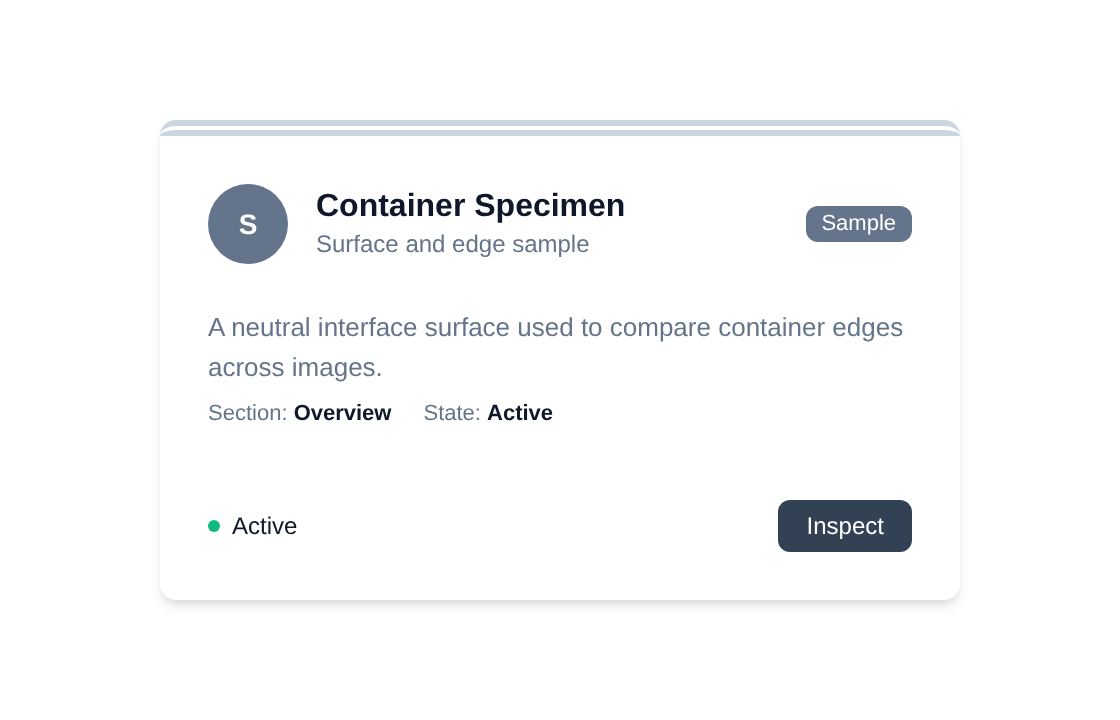
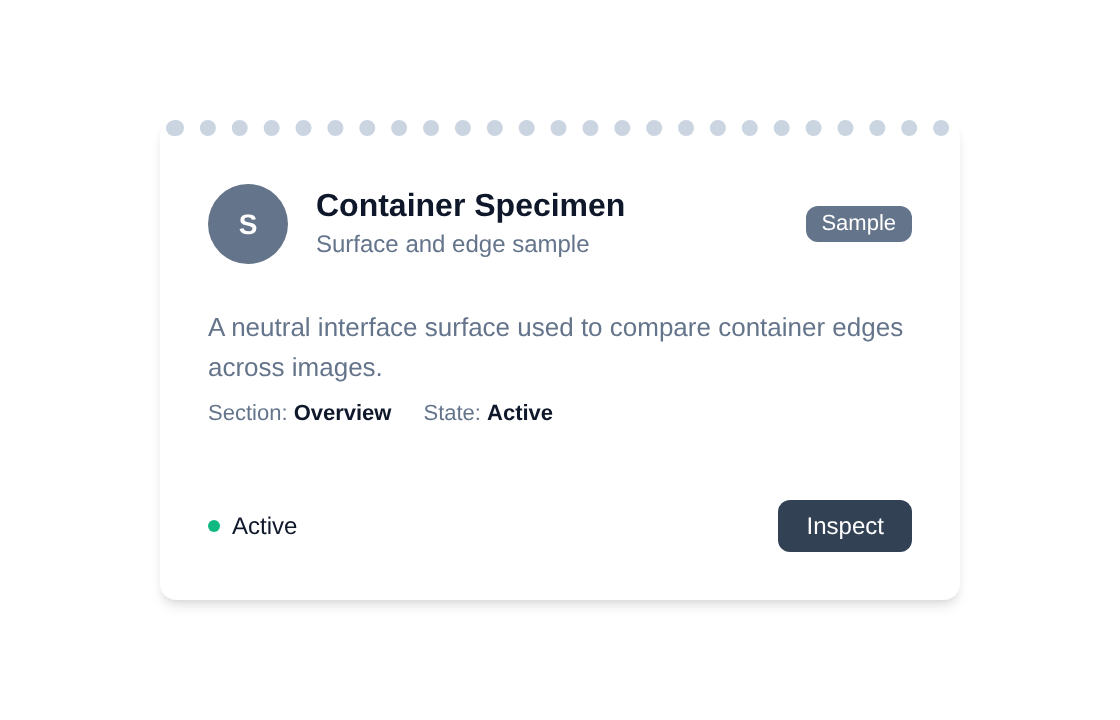
docs: close release-04 with 1.1.0 records and site

Changed region(s): [[0.1562, 0.1528, 0.875, 0.2139]]

diff --git a/site/index.html b/site/index.html
@@ -3,7 +3,7 @@
 <head>
 <meta charset="utf-8">
 <meta name="viewport" content="width=device-width, initial-scale=1">
-<title>BorderBench 1.0.0</title>
+<title>BorderBench 1.1.0</title>
 <style>
 body { font-family: Arial, sans-serif; margin: 0 auto; max-width: 1200px; padding: 24px; color: #0f172a; }
 small { display: block; color: #64748b; font-weight: 400; }
@@ -18,8 +18,8 @@ code { font-size: 12px; }
 </style>
 </head>
 <body>
-<h1>BorderBench 1.0.0</h1>
-<p>120 inputs · dataset <code>dcbff0b1c76a</code> · protocol <code>154aa49f7a90</code> · gate passed</p>
+<h1>BorderBench 1.1.0</h1>
+<p>120 inputs · dataset <code>506b7372566e</code> · protocol <code>36f674d3004f</code> · gate passed</p>
 <p>Shared cohort: 0 inputs measured by every listed configuration. Repeats keep the earliest observation; repeat costs stay in the ledger.</p>
 <div class="table-scroll"><table><thead><tr><th scope="col">Model</th><th scope="col">All seven correct</th><th scope="col">Border presence</th><th scope="col">Edge selectivity</th><th scope="col">Stroke style</th><th scope="col">Stroke width</th><th scope="col">Corner radius</th><th scope="col">Corner uniformity</th><th scope="col">Elevation</th></tr></thead><tbody><tr><td colspan="9">No measurements yet.</td></tr></tbody></table></div>
 
@@ -72,9 +72,9 @@ code { font-size: 12px; }
 <rect x="888" y="244" width="280" height="220" rx="8" fill="#fff"/>
 <image x="896" y="252" width="264" height="150" preserveAspectRatio="xMidYMid meet" href="inputs/borderbench-071.png"/>
 <text x="900" y="425" font-family="Arial,sans-serif" font-size="15" font-weight="700" fill="#0f172a">bottom-only</text>
-<text x="900" y="446" font-family="Arial,sans-serif" font-size="11" fill="#64748b">8px double</text>
+<text x="900" y="446" font-family="Arial,sans-serif" font-size="11" fill="#64748b">8px dotted</text>
 </g>
-</svg><div class="table-scroll"><table><thead><tr><th scope="col">Input group<small>All seven correct</small></th></tr></thead><tbody><tr><th scope="row">all-4<small>47 inputs</small></th></tr><tr><th scope="row">bottom-only<small>12 inputs</small></th></tr><tr><th scope="row">left-only<small>12 inputs</small></th></tr><tr><th scope="row">none<small>37 inputs</small></th></tr><tr><th scope="row">top-only<small>12 inputs</small></th></tr></tbody></table></div></section><section><h2>Stroke style</h2><p>Solid, dashed, dotted, double, or no stroke pattern.</p><svg xmlns="http://www.w3.org/2000/svg" viewBox="0 0 1180 476" role="img">
+</svg><div class="table-scroll"><table><thead><tr><th scope="col">Input group<small>All seven correct</small></th></tr></thead><tbody><tr><th scope="row">all-4<small>47 inputs</small></th></tr><tr><th scope="row">bottom-only<small>12 inputs</small></th></tr><tr><th scope="row">left-only<small>12 inputs</small></th></tr><tr><th scope="row">none<small>37 inputs</small></th></tr><tr><th scope="row">top-only<small>12 inputs</small></th></tr></tbody></table></div></section><section><h2>Stroke style</h2><p>Solid, dashed, dotted, or no stroke pattern.</p><svg xmlns="http://www.w3.org/2000/svg" viewBox="0 0 1180 476" role="img">
 <title>Stroke style</title>
 <rect width="100%" height="100%" fill="#f1f5f9"/>
 <g>
@@ -103,15 +103,15 @@ code { font-size: 12px; }
 </g>
 <g>
 <rect x="12" y="244" width="280" height="220" rx="8" fill="#fff"/>
-<image x="20" y="252" width="264" height="150" preserveAspectRatio="xMidYMid meet" href="inputs/borderbench-014.png"/>
-<text x="24" y="425" font-family="Arial,sans-serif" font-size="15" font-weight="700" fill="#0f172a">double</text>
-<text x="24" y="446" font-family="Arial,sans-serif" font-size="11" fill="#64748b">4px double</text>
+<image x="20" y="252" width="264" height="150" preserveAspectRatio="xMidYMid meet" href="inputs/borderbench-002.png"/>
+<text x="24" y="425" font-family="Arial,sans-serif" font-size="15" font-weight="700" fill="#0f172a">solid</text>
+<text x="24" y="446" font-family="Arial,sans-serif" font-size="11" fill="#64748b">1px solid</text>
 </g>
 <g>
 <rect x="304" y="244" width="280" height="220" rx="8" fill="#fff"/>
-<image x="312" y="252" width="264" height="150" preserveAspectRatio="xMidYMid meet" href="inputs/borderbench-002.png"/>
-<text x="316" y="425" font-family="Arial,sans-serif" font-size="15" font-weight="700" fill="#0f172a">solid</text>
-<text x="316" y="446" font-family="Arial,sans-serif" font-size="11" fill="#64748b">1px solid</text>
+<image x="312" y="252" width="264" height="150" preserveAspectRatio="xMidYMid meet" href="inputs/borderbench-014.png"/>
+<text x="316" y="425" font-family="Arial,sans-serif" font-size="15" font-weight="700" fill="#0f172a">dotted</text>
+<text x="316" y="446" font-family="Arial,sans-serif" font-size="11" fill="#64748b">4px dotted</text>
 </g>
 <g>
 <rect x="596" y="244" width="280" height="220" rx="8" fill="#fff"/>
@@ -125,7 +125,7 @@ code { font-size: 12px; }
 <text x="900" y="425" font-family="Arial,sans-serif" font-size="15" font-weight="700" fill="#0f172a">dashed</text>
 <text x="900" y="446" font-family="Arial,sans-serif" font-size="11" fill="#64748b">2px dashed</text>
 </g>
-</svg><div class="table-scroll"><table><thead><tr><th scope="col">Input group<small>All seven correct</small></th></tr></thead><tbody><tr><th scope="row">dashed<small>14 inputs</small></th></tr><tr><th scope="row">dotted<small>11 inputs</small></th></tr><tr><th scope="row">double<small>9 inputs</small></th></tr><tr><th scope="row">none<small>37 inputs</small></th></tr><tr><th scope="row">solid<small>49 inputs</small></th></tr></tbody></table></div></section><section><h2>Stroke width</h2><p>Hairline 1px through heavy 8px strokes.</p><svg xmlns="http://www.w3.org/2000/svg" viewBox="0 0 1180 476" role="img">
+</svg><div class="table-scroll"><table><thead><tr><th scope="col">Input group<small>All seven correct</small></th></tr></thead><tbody><tr><th scope="row">dashed<small>18 inputs</small></th></tr><tr><th scope="row">dotted<small>16 inputs</small></th></tr><tr><th scope="row">none<small>37 inputs</small></th></tr><tr><th scope="row">solid<small>49 inputs</small></th></tr></tbody></table></div></section><section><h2>Stroke width</h2><p>Hairline 1px through heavy 8px strokes.</p><svg xmlns="http://www.w3.org/2000/svg" viewBox="0 0 1180 476" role="img">
 <title>Stroke width</title>
 <rect width="100%" height="100%" fill="#f1f5f9"/>
 <g>
@@ -174,7 +174,7 @@ code { font-size: 12px; }
 <rect x="888" y="244" width="280" height="220" rx="8" fill="#fff"/>
 <image x="896" y="252" width="264" height="150" preserveAspectRatio="xMidYMid meet" href="inputs/borderbench-014.png"/>
 <text x="900" y="425" font-family="Arial,sans-serif" font-size="15" font-weight="700" fill="#0f172a">4px</text>
-<text x="900" y="446" font-family="Arial,sans-serif" font-size="11" fill="#64748b">4px double</text>
+<text x="900" y="446" font-family="Arial,sans-serif" font-size="11" fill="#64748b">4px dotted</text>
 </g>
 </svg><div class="table-scroll"><table><thead><tr><th scope="col">Input group<small>All seven correct</small></th></tr></thead><tbody><tr><th scope="row">0px<small>37 inputs</small></th></tr><tr><th scope="row">1px<small>30 inputs</small></th></tr><tr><th scope="row">2px<small>28 inputs</small></th></tr><tr><th scope="row">4px<small>16 inputs</small></th></tr><tr><th scope="row">8px<small>9 inputs</small></th></tr></tbody></table></div></section><section><h2>Corner radius</h2><p>Sharp corners through full pill capsules.</p><svg xmlns="http://www.w3.org/2000/svg" viewBox="0 0 1180 476" role="img">
 <title>Corner radius</title>

diff --git a/baseline/releases.py b/baseline/releases.py
@@ -14,7 +14,7 @@ from baseline.providers import PROVIDERS
 
 
 REPO_ROOT = Path(__file__).resolve().parents[1]
-DEFAULT_RELEASE = "1.0.0"
+DEFAULT_RELEASE = "1.1.0"
 _VERSION = r"(?:0|[1-9][0-9]*)\.(?:0|[1-9][0-9]*)\.(?:0|[1-9][0-9]*)"
 
 

diff --git a/README.md b/README.md
@@ -1,17 +1,18 @@
-# BorderBench V1.0.0
+# BorderBench V1.1.0
 
 BorderBench measures recognition of seven container properties from an
 image: border presence, edge selectivity, stroke style, stroke width,
-corner radius, corner uniformity, and elevation. **V1.0.0 freezes 120
+corner radius, corner uniformity, and elevation. **V1.1.0 freezes 120
 images** with fixed neutral card text, verified rendering evidence, and
 zero validation errors.
 
-The [release descriptor](releases/1.0.0.json) binds this version to
+The [release descriptor](releases/1.1.0.json) binds this version to
 dataset Git commit
-[`11adacb`](https://github.com/eob/borderbench/commit/11adacbfebcf92fac4c8680c1a2541d3fed546bc),
+[`ec1dc04`](https://github.com/eob/borderbench/commit/ec1dc044f39b45be7c4b6fea018026722640b947),
 the dataset fingerprint, and the evaluation protocol fingerprint.
-[CHANGELOG.md](CHANGELOG.md) records the release; Git tag `v1.0.0`
-identifies its compatible tooling.
+[CHANGELOG.md](CHANGELOG.md) records the release; Git tag `v1.1.0`
+identifies its compatible tooling. V1.0.0 remains valid under tag
+`v1.0.0`; scores never transfer between releases.
 
 The original 120-image set and its published scores are **invalid
 historical prototypes**: card text revealed the answers. Their inputs,
@@ -45,7 +46,7 @@ contacting a model.
 Run an offline smoke check first:
 
 ```bash
-bun run benchmark --release 1.0.0 --mock --run-id smoke --max-tasks 3
+bun run benchmark --release 1.1.0 --mock --run-id smoke --max-tasks 3
 ```
 
 Select models from [`config/models.json`](config/models.json), or provide
@@ -60,15 +61,15 @@ Separate runs can contribute to the same release:
 
 ```bash
 # Example: GPT in one campaign.
-bun run benchmark --release 1.0.0 --run-id gpt-september \
+bun run benchmark --release 1.1.0 --run-id gpt-september \
   --models gpt-6-astra --budget-usd 25
 
 # Example: Gemini in a later campaign.
-bun run benchmark --release 1.0.0 --run-id gemini-later \
+bun run benchmark --release 1.1.0 --run-id gemini-later \
   --models gemini-3.1-pro-preview --budget-usd 25
 
 # Rebuild the website from all compatible recorded runs.
-bun run build:page --release 1.0.0 --results-dir results/runs --output-dir site
+bun run build:page --release 1.1.0 --results-dir results/runs --output-dir site
 python3 -m http.server 8000 --directory site
 ```
 
@@ -76,7 +77,7 @@ These live commands make paid requests. The budget is a cumulative
 estimate for that run based on configured rates and conservative
 reservations, not a provider invoice or provider-enforced limit.
 
-Each run writes to `results/runs/1.0.0/<run-id>/`. Its `run.json` records
+Each run writes to `results/runs/1.1.0/<run-id>/`. Its `run.json` records
 the release, full dataset Git hash, data/protocol fingerprints, model
 configurations, timestamps, and executing code commit/dirty state.
 `state.sqlite3` is the resumable checkpoint; `attempts.jsonl` retains
@@ -119,7 +120,7 @@ prompt](baseline/prompt.txt) defines the labels:
 | --- | --- |
 | Presence | `has_border`: a stroke exists on any edge |
 | Sides | `all-4`, `bottom-only`, `left-only`, `top-only`, `none` |
-| Style | `solid`, `dashed`, `dotted`, `double` (needs ≥4px), `none` |
+| Style | `solid`, `dashed`, `dotted`, `none` |
 | Width | `0px`, `1px` (hairline), `2px`, `4px`, `8px` (heavy) |
 | Radius | `sharp` (0px), `subtle` (3px), `medium` (8px), `large` (18px), `pill` (9999px) |
 | Uniformity | `all-corners`, `top-only` (bottom sharp), `asymmetric` (2px acute corner) |

diff --git a/results/README.md b/results/README.md
@@ -1,6 +1,6 @@
 # Versioned run history
 
-Current release: **[BorderBench V1.0.0](../releases/1.0.0.json)**. The
+Current release: **[BorderBench V1.1.0](../releases/1.1.0.json)** (V1.0.0 remains valid under tag `v1.0.0`; scores never transfer). The
 [changelog](../CHANGELOG.md) records its Git commit, dataset fingerprint,
 and evaluation protocol.
 
@@ -10,9 +10,9 @@ website collects compatible records across all those directories. Reuse a
 run ID only to resume that same campaign.
 
 ```bash
-bun run benchmark --release 1.0.0 --run-id gpt-september --models gpt-6-astra --budget-usd 25
-bun run benchmark --release 1.0.0 --run-id gemini-later --models gemini-3.1-pro-preview --budget-usd 25
-bun run build:page --release 1.0.0 --results-dir results/runs --output-dir site
+bun run benchmark --release 1.1.0 --run-id gpt-september --models gpt-6-astra --budget-usd 25
+bun run benchmark --release 1.1.0 --run-id gemini-later --models gemini-3.1-pro-preview --budget-usd 25
+bun run build:page --release 1.1.0 --results-dir results/runs --output-dir site
 ```
 
 These example live commands have separate cumulative spending guards; they
@@ -36,7 +36,7 @@ Keys, locks, SQLite WAL/SHM files, and mock runs remain excluded. Wait for
 the runner to finish, then commit the complete run directory together:
 
 ```bash
-git add results/runs/1.0.0/gpt-september
+git add results/runs/1.1.0/gpt-september
 git commit -m 'results: record GPT evaluation on BorderBench V1.0.0'
 ```
 

diff --git a/tickets/release-04-v1-1-rosetta.md b/tickets/release-04-v1-1-rosetta.md
@@ -1,6 +1,6 @@
 # release-04-v1-1-rosetta: Tailwind Rosetta Stone and realistic style set
 
-- **Status**: In Progress
+- **Status**: Completed
 - **Branch**: `release-04-v1-1-rosetta`
 - **Base**: `ee30b61`
 - **Machine**: `eob-dev2`
@@ -78,3 +78,21 @@ evidence.
 ## Handoff & Takeover Log
 
 - `2026-09-10`: Started by `muse` on `eob-dev2` (Session `01a08932-89e6-7782-b859-de207f01941f`).
+
+## Completion
+
+Shipped. Prompt names Tailwind equivalents and fixed text sizes; schema,
+specimens, exports, and page dropped `double`; floating stack aligned to
+exact `shadow-lg`. Corpus `dataset/borderbench-v1.1` (commit `ec1dc04`)
+validates with zero errors; release 1.1.0 descriptor, changelog, and
+rebuilt site committed.
+
+| Gate | Result |
+| --- | --- |
+| `bun run test` | 83 Python, 18 Bun, tsc clean |
+| `validate:dataset` / `validate:release` (1.1.0) | valid, 120 inputs |
+| Superseded 1.0.0 under new code | refused closed (protocol mismatch); passes under `v1.0.0` checkout |
+| Offline 1.1.0 mock + resume | 120 attempts, 0 dupes, $0, 2 invocations |
+| Page desktop/mobile | 0 JS errors, 0 overflow, 48 images, 7 tables |
+| Isolated v1.0.0 reversion | 4 Python + 1 Bun failures, 4 controls pass |
+| Frozen 1.0.0 artifacts | `git diff` clean on corpus and descriptor |

diff --git a/CHANGELOG.md b/CHANGELOG.md
@@ -1,5 +1,28 @@
 # BorderBench changelog
 
+## V1.1.0 — 2026-09-10
+
+Tailwind Rosetta Stone release. Every label maps to Tailwind CSS
+utilities (see the [rosetta table](dataset/README.md)), the prompt
+declares the fixed text sizes and inner chrome, elevation stacks align
+exactly to Tailwind `shadow` / `shadow-lg` / `shadow-md`, and the
+unrealistic `double` style is removed (its 9 specimens redistribute to
+dashed/dotted heavies). Same 7-field schema; scores are incomparable
+with V1.0.0.
+
+| Identity | Frozen value |
+| --- | --- |
+| Version | `1.1.0` |
+| Release descriptor | [releases/1.1.0.json](releases/1.1.0.json) |
+| Dataset Git commit | [`ec1dc04`](https://github.com/eob/borderbench/commit/ec1dc044f39b45be7c4b6fea018026722640b947) |
[2 lines of base64/hex data omitted]
+| Grading version | `2` |
+| Compatible release checkout | Git tag `v1.1.0` |
+
+V1.0.0 remains valid and immutable under tag `v1.0.0`; no scores
+transfer between releases.
+
 ## V1.0.0 — 2026-09-10
 
 First named, frozen benchmark release. The accepted corpus contains

diff --git a/releases/README.md b/releases/README.md
@@ -6,13 +6,21 @@ fingerprints, and the expected task count.
 
 | Release | Corpus | Status |
 | --- | --- | --- |
-| [1.0.0](1.0.0.json) | `dataset/borderbench-v1` (120 images) | Current |
+| [1.1.0](1.1.0.json) | `dataset/borderbench-v1.1` (120 images) | Current |
+| [1.0.0](1.0.0.json) | `dataset/borderbench-v1` (120 images) | Superseded but valid; incomparable scores |
+
+Scores never transfer across releases. The 1.0.0 corpus, descriptor,
+and tag stay immutable; use the `v1.0.0` checkout for 1.0.0 runs.
 
 Validate a release offline before any live run:
 
 ```bash
 bun run validate:release
 ```
+
+Superseded releases validate only under their compatible checkout (for
+example, `validate:release-1.0` at tag `v1.0.0`); newer code refuses
+them closed with a protocol mismatch instead of mixing versions.
 
 The gate refuses changed manifest bytes, a changed dataset fingerprint, a
 changed evaluation protocol, or a wrong task count. Changes to released

diff --git a/dataset/README.md b/dataset/README.md
@@ -30,7 +30,13 @@ subtitle 12px, body 13px, meta 11px; 40px pill avatar, 6px badge and
 button corners, 6px status dot. Inner content is identical and carries
 no signal.
 
-## Current release: `borderbench-v1` (120 images)
+## Current release: `borderbench-v1.1` (120 images)
+
+The V1.1.0 corpus. Same neutral cards and evidence as V1.0.0, with the
+Tailwind-grounded prompt, exact `shadow` / `shadow-lg` / `shadow-md`
+stacks, and no `double` style (redistributed to dashed/dotted heavies).
+
+## Superseded release: `borderbench-v1` (120 images, V1.0.0)
 
 The V1.0.0 corpus. Every card carries fixed neutral text; models must judge
 border, corner, and shadow pixels only. Each manifest task records the image
